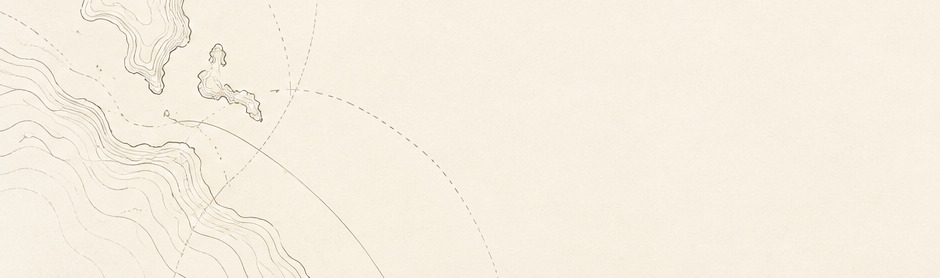
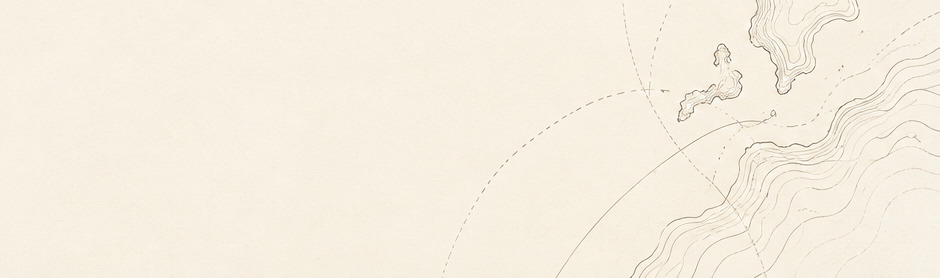
feat: Outer Office's paper hero is mirrored so its contours sit clear of the text panel

diff --git a/clients/outer-office/README.md b/clients/outer-office/README.md
@@ -167,11 +167,12 @@ default the browser fetches nothing from any origin but the one serving the app.
 builds never use a CDN: the operating system's fonts cover other scripts and emoji there.
 
 The hero art in `assets/heroes/`: `map.jpg` and `skyline.jpg` cut from the AI6 brand
-banners; `paper.jpg`, a 940×278 crop at the left edge, 746 px down, of a 1536×1024
-picture made with a built-in image generation tool on 2026-10-29 from a written prompt and
-no reference images (pale ivory paper, thin taupe coast-like contours and drafting arcs at
-the left and right edges, a blank centre, no text, labels, routes or markers), saved at
-JPEG quality 92. The wallpapers in `assets/backdrops/` come from the AI6 brand pack.
+banners; `paper.jpg`, a 940×278 crop at the left edge, 746 px down, of a 1536×1024 picture
+made with a built-in image generation tool on 2026-10-29 from a written prompt and no
+reference images (pale ivory paper, thin taupe coast-like contours and drafting arcs at the
+left and right edges, a blank centre, no text, labels, routes or markers), mirrored so its
+contours sit on the right, clear of the hero's text panel, and saved at JPEG quality 92.
+The wallpapers in `assets/backdrops/` come from the AI6 brand pack.
 
 The fallback fonts are the 727 Noto files the Flutter web engine can ask for (SIL Open
 Font License 1.1, `assets/fonts/LICENSE-Noto.txt`, on the licence page of the web app):
